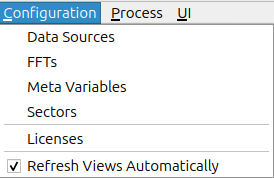
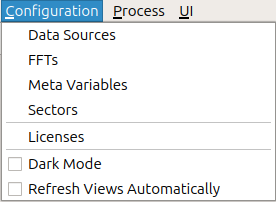
doc up

Changed region(s): [[0.0, 0.0, 1.0, 1.0]]

diff --git a/doc/user_manual/commandline/command_line.tex b/doc/user_manual/commandline/command_line.tex
@@ -16,6 +16,8 @@ To get a list of available command line options use e.g.:
 Allowed options:
   --help                                produce help message
   -r [ --reset ]                        reset user configuration and data
+  --override_cfg_path arg               overrides 'default' config subfolder to
+                                        other value, e.g. 'org'
   --expert_mode                         set expert mode
   --create_db arg                       creates and opens new SQLite3 database 
                                         with given filename, e.g. 
@@ -28,6 +30,14 @@ Allowed options:
                                         given filename, e.g. '/data/file1.json'
   --import_asterix_file arg             imports ASTERIX file with given 
                                         filename, e.g. '/data/file1.ff'
+  --import_asterix_files arg            imports multiple ASTERIX files with 
+                                        given filenames, e.g. 
+                                        '/data/file1.ff;/data/file2.ff'
+  --import_asterix_pcap_file arg        imports ASTERIX PCAP file with given 
+                                        filename, e.g. '/data/file1.pcap'
+  --import_asterix_pcap_files arg       imports multiple ASTERIX PCAP files 
+                                        with given filenames, e.g. 
+                                        '/data/file1.pcap;/data/file2.pcap'
   --import_asterix_file_line arg        imports ASTERIX file with given line, 
                                         e.g. 'L2'
   --import_asterix_date arg             imports ASTERIX file with given date, 
@@ -35,20 +45,30 @@ Allowed options:
   --import_asterix_file_time_offset arg used time offset during ASTERIX file 
                                         import Time of Day override, in 
                                         HH:MM:SS.ZZZ'
+  --import_asterix_ignore_time_jumps    imports ASTERIX file ignoring 24h time 
+                                        jumps
   --import_asterix_network              imports ASTERIX from defined network 
                                         UDP streams
   --import_asterix_network_time_offset arg
-                                        used time offset during ASTERIX network
-                                        import, in HH:MM:SS.ZZZ'
+                                        additive time offset during ASTERIX 
+                                        network import, in HH:MM:SS.ZZZ'
   --import_asterix_network_max_lines arg
                                         maximum number of lines per data source
-                                        during ASTERIX network import, 1..4'
+                                        during ASTERIX network import, 1..4
+  --import_asterix_network_ignore_future_ts 
+                                        ignore future timestamps during ASTERIX
+                                        network import'
   --asterix_framing arg                 sets ASTERIX framing, e.g. 'none', 
                                         'ioss', 'ioss_seq', 'rff'
   --asterix_decoder_cfg arg             sets ASTERIX decoder config using JSON 
                                         string, e.g. ''{"10":{"edition":"0.31"}
                                         }'' (including one pair of single 
                                         quotes)
+  --import_asterix_parameters arg       ASTERIX import parameters as JSON 
+                                        string, e.g. ''{"filter_modec_active": 
+                                        true,"filter_modec_max": 
+                                        50000.0,"filter_modec_min": -10000.0}''
+                                        (including one pair of single quotes)
   --import_json arg                     imports JSON file with given filename, 
                                         e.g. '/data/file1.json'
   --import_gps_trail arg                imports gps trail NMEA with given 
@@ -68,7 +88,7 @@ Allowed options:
                                         '/data/sectors.json'
   --calculate_radar_plot_positions      calculate radar plot positions
   --calculate_artas_tr_usage            associate target reports based on ARTAS
-                                        usage  
+                                        usage
   --reconstruct_references              reconstruct references from sensor and 
                                         tracker data
   --load_data                           load data after start
@@ -85,10 +105,15 @@ Allowed options:
   --export_eval_report arg              export evaluation report after start 
                                         with given filename, e.g. 
                                         '/data/eval_db2/report.tex
-  --max_fps arg                         maximum fps for display in Geographic View'
+  --max_fps arg                         maximum fps for display in 
+                                        GeographicView'
   --no_cfg_save                         do not save configuration upon quitting
+  --open_rt_cmd_port                    open runtime command port (default at 
+                                        27960)
+  --enable_event_log                    collect warnings and errors in the 
+                                        event log
   --quit                                quit after finishing all previous steps
-
+  
 \end{lstlisting}
 \ \\
 
@@ -113,6 +138,9 @@ Adds the data sources defined in the JSON file to the configuration, as describe
 After a database was opened, adds the supplied filename and starts an import using the task described in \nameref{sec:ui_import_viewpoints}.
  
 \subsection{--import\_asterix\_file filename}
+\subsection{--import\_asterix\_files filenames}
+\subsection{--import\_asterix\_pcap\_file filename}
+\subsection{--import\_asterix\_pcap\_files filenames}
 
 After a database was opened, adds the supplied filename and starts an import using the task described in \nameref{sec:ui_import_asterix}.
 
@@ -124,7 +152,6 @@ If an import using the task described in \nameref{sec:ui_import_asterix} is star
 \subsection{--import\_asterix\_date arg}
 
 If an import using the task described in \nameref{sec:ui_import_asterix} is started, it will use the import date in YYYY-mm-DD format.
-
 
 \subsection{--import\_asterix\_network}
 
@@ -180,6 +207,42 @@ For one or a number of categories, the following options can be set:
 \ \\
 
 Please note that the naming must be exactly as in the GUI, otherwise the application quits with an error message.
+
+\subsection{--import\_asterix\_parameters}
+
+When an Import ASTERIX task is started the given configuration overrides are used, all parameters can be set using a JSON string. \\
+
+In a nice formatting the string looks like this:
+\begin{lstlisting}[basicstyle=\small\ttfamily]
+'{
+{
+  "filter_position_active": true,
+  "filter_latitude_min": 49.686,
+  "filter_latitude_max": 50.3898,
+  "filter_longitude_min": 8.0115,
+  "filter_longitude_max": 9.1129,
+  "filter_modec_active": true,
+  "filter_modec_max": 500,
+  "filter_modec_min": -10000
+}'
+\end{lstlisting}
+\ \\
+
+Please note that the parameter naming must be exactly as in the 'task\_import\_asterix.json', with the following additional non-configuration parameters:
+\begin{lstlisting}[basicstyle=\small\ttfamily]
+'{
+  "override_tod_active": true,
+  "filter_tod_active": true,
+  "filter_position_active": true,
+  "filter_modec_active": true,
+  "file_line_id": 0, // 0...3
+  "date_str": "YYYY-mm-DD",
+  "network_ignore_future_ts": true,
+  "obfuscate_secondary_info": true
+}'
+\end{lstlisting}
+\ \\
+
 
 \subsection{--import\_json\_file filename}
 

diff --git a/doc/user_manual/ui/ui_overview.tex b/doc/user_manual/ui/ui_overview.tex
@@ -105,6 +105,10 @@ Data sources and sectors can be configured using the Configuration menu. Further
  \begin{itemize}
  \item see \nameref{sec:ui_configure_licenses}
  \end{itemize}
+   \item Dark Mode: Enable/Disable dark mode (after restart)
+ \begin{itemize}
+ \item see \nameref{sec:ui_overview_dark_mode}
+ \end{itemize}
 \end{itemize}
 \  \\
 
@@ -152,7 +156,18 @@ The UI can be reset to a "default" state (as existed at application startup) usi
 \subfile{ui_targets}
 \subfile{ui_views}
 
+\subsection{Dark Mode}
+\label{sec:ui_overview_dark_mode}
 
+After Dark Mode is enabled or disabled (requiring an application restart), the GUI is switched to a dark theme.
 
+\begin{figure}[H]
+  \hspace*{-2.5cm}
+    \includegraphics[width=19cm]{figures/dark_mode.png}
+  \caption{Main Window Dark Mode}
+\end{figure}
 
+Please \textbf{note} that this mode is currently experimental, and not all Views support this dark background color, and some GUI elements may show unexpected coloring. This will be improved in the future. Please also \textbf{note} that the window decoration color can only be changed using your Linux window manager settings. \\
+
+There also exist special dark mode maps for Geographic View as described in \nameref{ref:geoview_map_osm_dark}.
 

diff --git a/doc/user_manual/geographicview/geo_layers_map_ops.tex b/doc/user_manual/geographicview/geo_layers_map_ops.tex
@@ -22,6 +22,7 @@ The following maps are commonly available:
  \item arcgis.earth*
  \item minimal.earth*
  \item openstreetmap.earth*
+ \item openstreetmap\_dark.earth*
  \item openstreetmap\_german.earth*
  \item readymap.earth
  \item readymap-detailed.earth
@@ -77,6 +78,25 @@ It is possible to zoom in to a very high level of detail, to even inspect airpor
     \hspace*{-2.5cm}
     \includegraphics[width=19cm,frame]{figures/geoview_osm_vienna.png}
   \caption{Geographic View OpenStreetMap Vienna Airport}
+\end{figure}
+
+\newpage
+\paragraph{Open Street Map Dark}
+\label{ref:geoview_map_osm_dark}
+
+Additionally, there is a dark version available:
+\begin{figure}[H]
+    \hspace*{-2.5cm}
+    \includegraphics[width=19cm,frame]{figures/geoview_osm_dark.png}
+  \caption{Geographic View OpenStreetMap Dark}
+\end{figure}
+
+It is possible to zoom in to a very high level of detail, to even inspect airport layouts.
+
+\begin{figure}[H]
+    \hspace*{-2.5cm}
+    \includegraphics[width=19cm,frame]{figures/geoview_osm_vienna_dark.png}
+  \caption{Geographic View OpenStreetMap Vienna Airport Dark}
 \end{figure}
 
 \newpage

diff --git a/src/client/mainwindow.cpp b/src/client/mainwindow.cpp
@@ -515,8 +515,9 @@ void MainWindow::updateMenus()
     config_menu_->setDisabled(asterix_import_running || in_live);
 
     for (auto a : config_menu_->actions())
-        a->setEnabled(a == license_action_ || 
-                      a == auto_refresh_views_action_ ? true : db_open);
+        a->setEnabled(a == license_action_
+                      || a == auto_refresh_views_action_
+                              || a == dark_mode_action_ ? true : db_open);
 }
 
 void MainWindow::updateBottomWidget()
